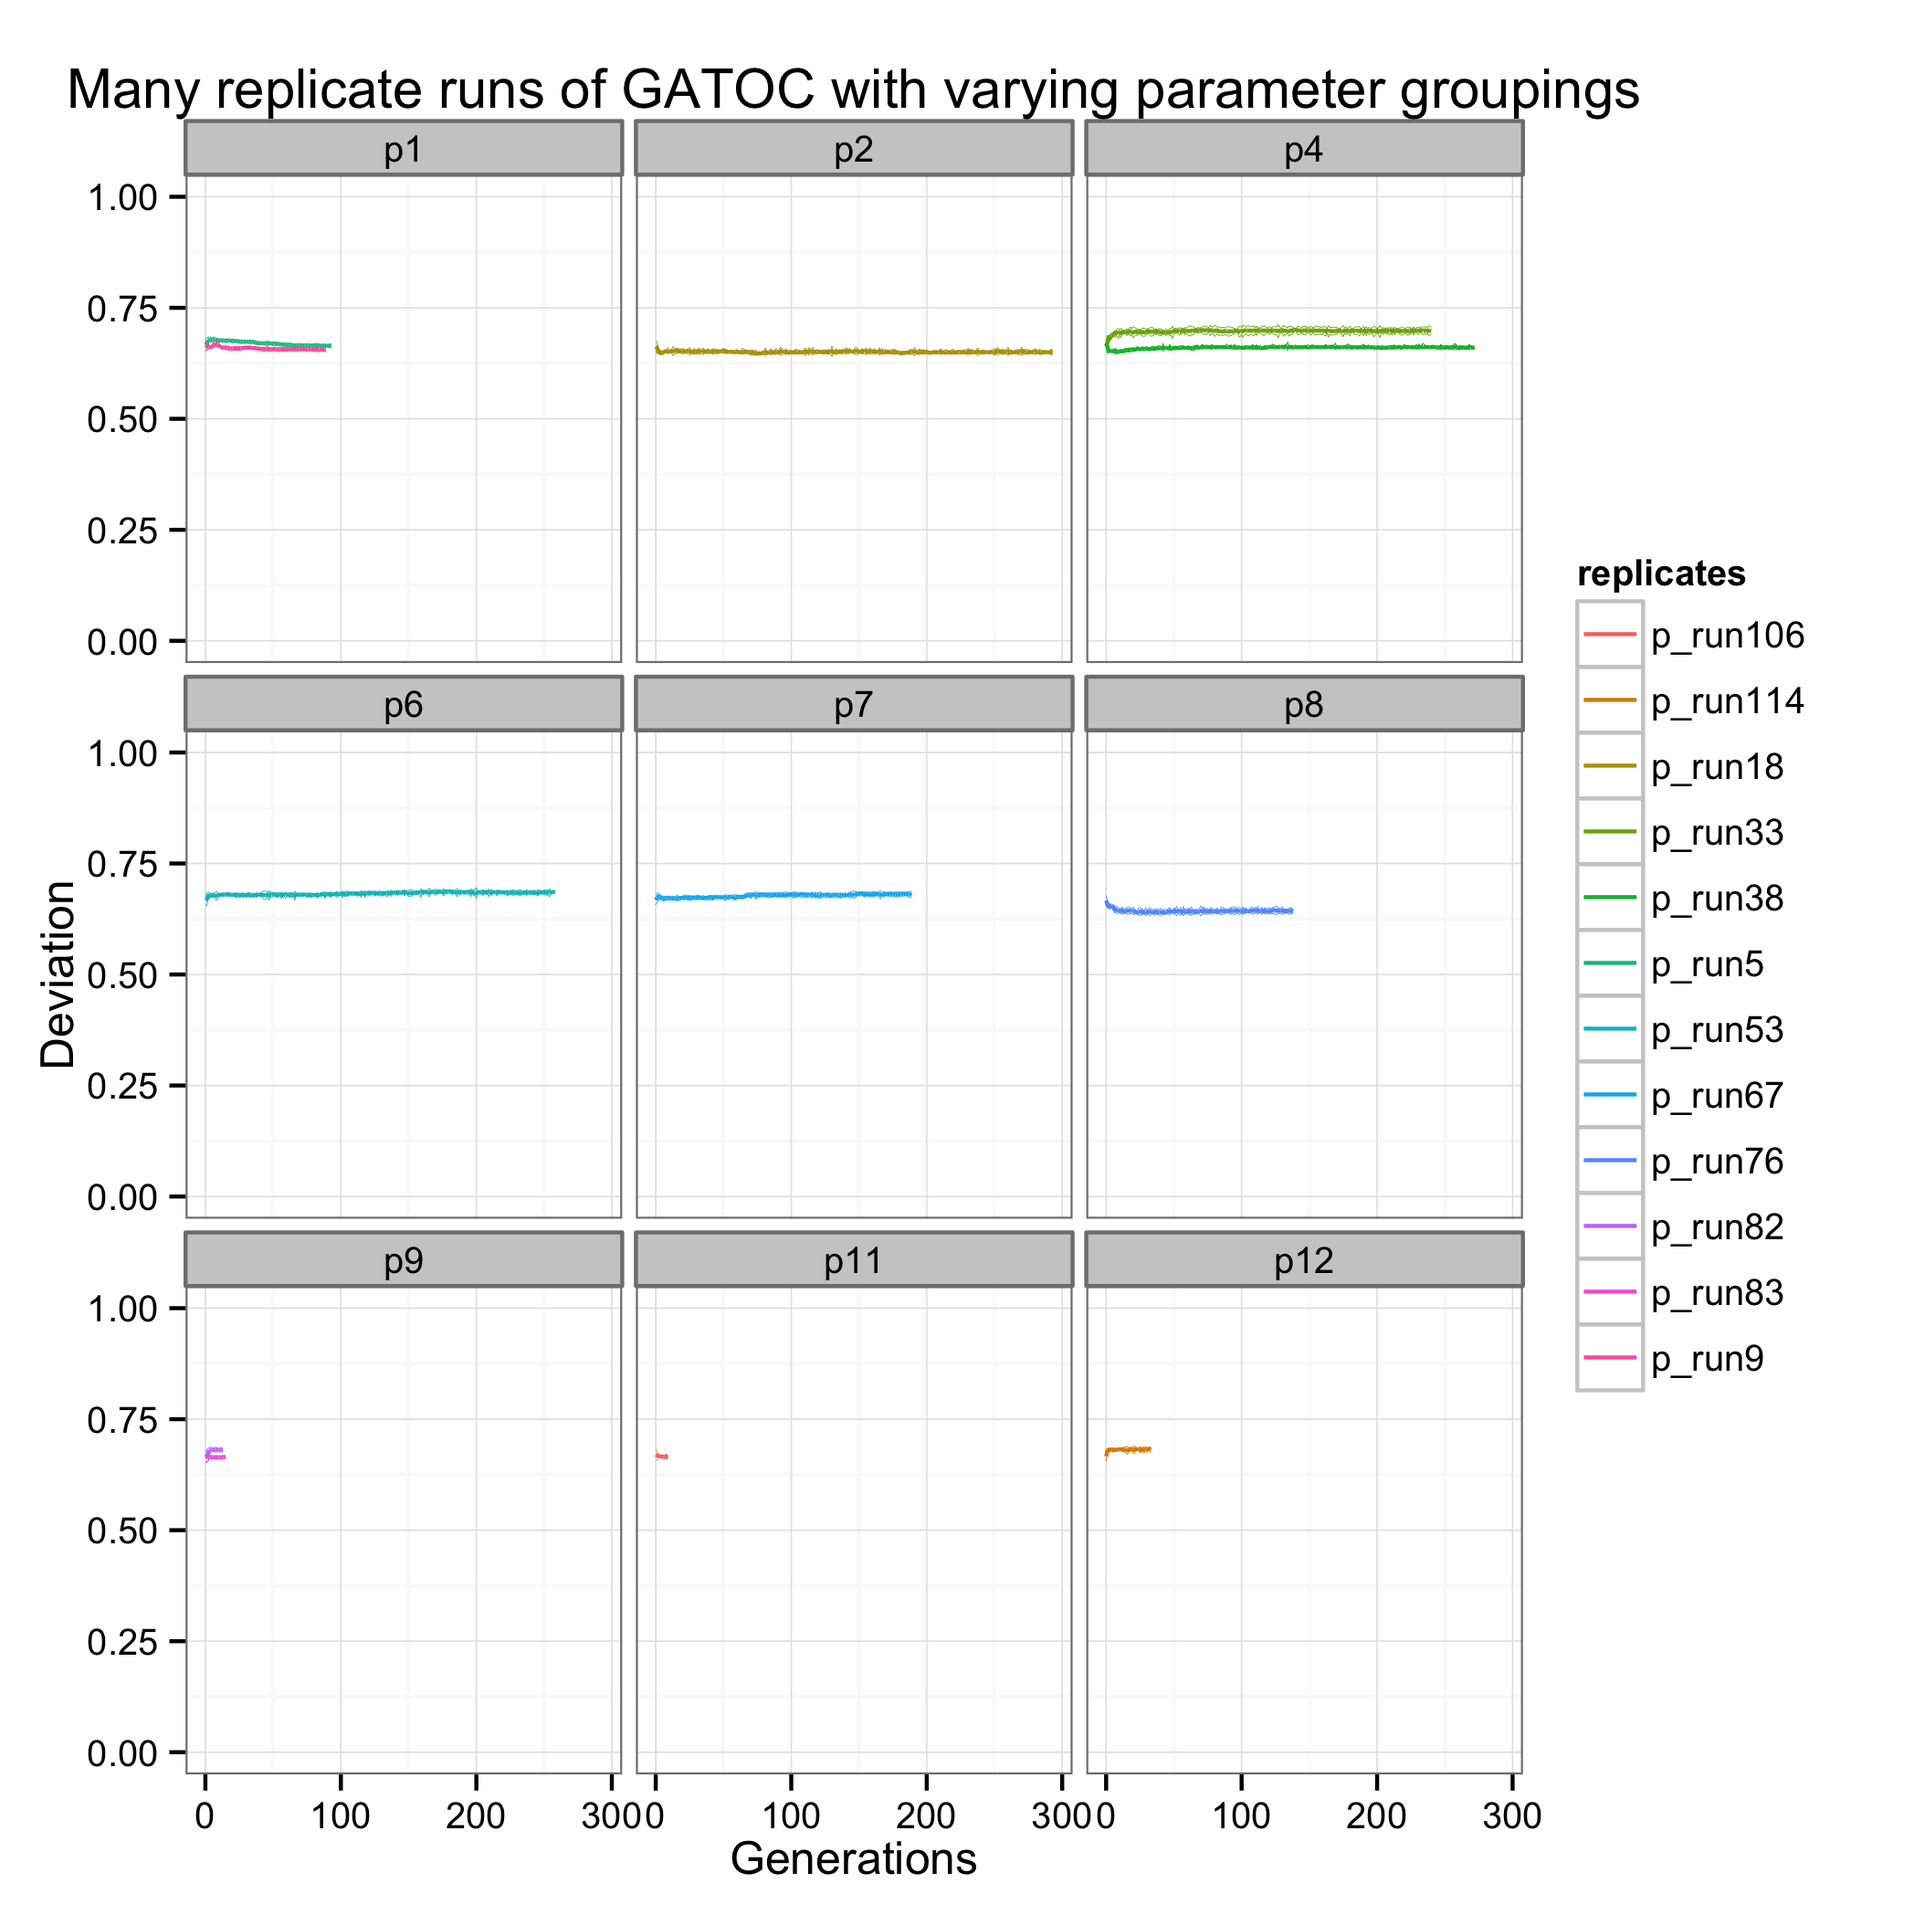
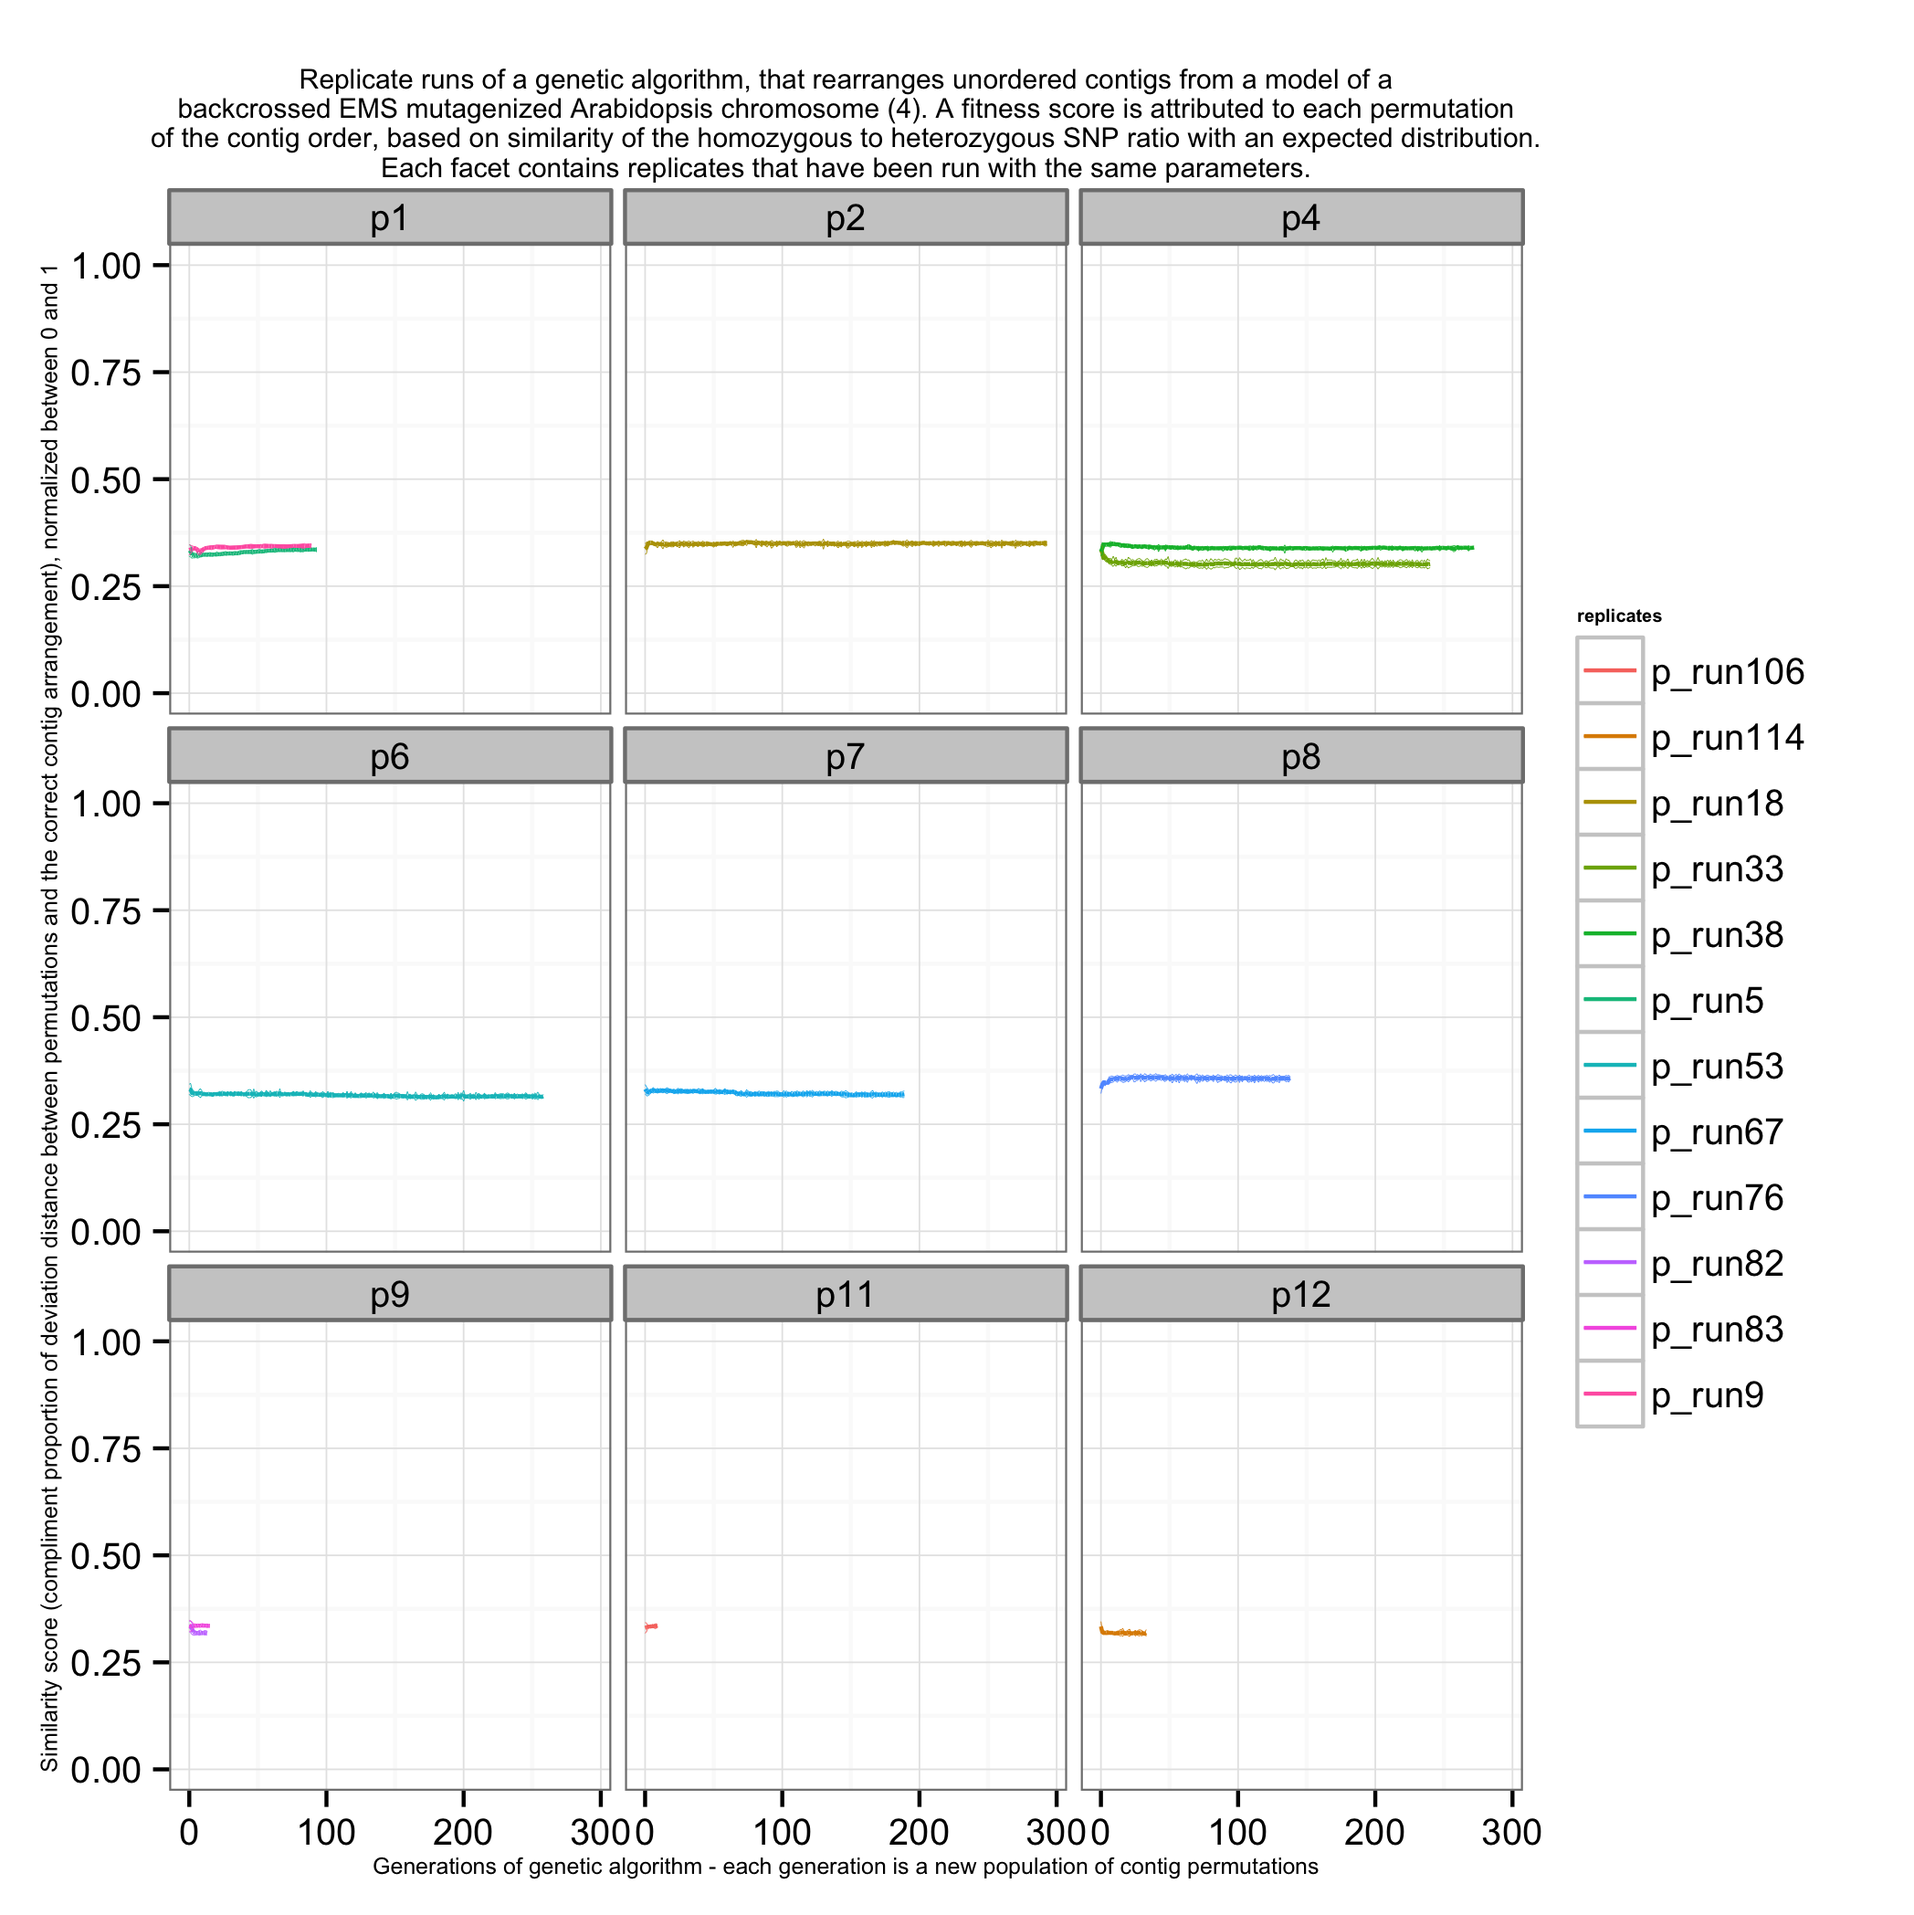
better axis and titles

diff --git a/multiple_runs_performance.rb b/multiple_runs_performance.rb
@@ -4,7 +4,10 @@ require_relative 'lib/score_plots/umbrella_plot'
 dataset = ARGV[0]
 method = ARGV[1]
 
-title = 'Many replicate runs of GATOC with varying parameter groupings'
+title = 'Replicate runs of a genetic algorithm, that rearranges unordered contigs from a model of a
+backcrossed EMS mutagenized Arabidopsis chromosome (4). A fitness score is attributed to each permutation
+of the contig order, based on similarity of the homozygous to heterozygous SNP ratio with an expected distribution.
+Each facet contains replicates that have been run with the same parameters.'
 
 if method == 'csv' || method == 'both'
 	UPlot.data_save(dataset)
@@ -12,9 +15,16 @@ end
 
 if method == 'plot' || method == 'both'
 	shorts, x = ['fits','dev','square','ham','r_dist','lcs','kt'], 0
+	y_axis = ['Permutation fitness score (similarity of SNP ratio across the permutation, to that of correctly ordered contigs)',
+		'Similarity score (compliment proportion of deviation distance between permutations and the correct contig arrangement), normalized between 0 and 1',
+		'Squared similarity score (compliment proportion of squared deviation distance between permutations and the correct contig arrangement), normalized between 0 and 1',
+		'Hamming similarity (compliment proportion of hamming distance between permutations and the correct contig arrangement), normalized between 0 and 1',
+		'R distance between permutations and the correct contig arrangement, normalized between 0 and 1',
+		'Longest common subsequence between permutations and the correct contig arrangement, normalized between 0 and 1',
+		'Compliment of Kendall\'s tau distance between permutations and the correct contig arrangement, normalized between 0 and 1']
 	['Fitness','Deviation','Square','Hamming','R','LCS','KT'].each do |metric|
 		filename = "umbrella_plot_#{[shorts[x]]}"
-		UPlot.uplot(dataset, filename, metric, title)
+		UPlot.uplot(dataset, filename, metric, y_axis[x], title)
 		x+=1
 	end
 end

diff --git a/lib/score_plots/umbrella_plot.rb b/lib/score_plots/umbrella_plot.rb
@@ -55,15 +55,17 @@ class UPlot
 	end
 
 	# Makes plot from arrays of generations (on for each data point), metric scores, and the run/replicate the data is from. Runs from different parameter replicates are faceted
-	def self.uplot(dataset, filename, metric, title)
+	def self.uplot(dataset, filename, metric, y_axis, title)
 		myr = RinRuby.new(echo = false)
 		myr.dataset = dataset
 		myr.filename = filename
 		myr.metric = metric
 		myr.title = title
+		myr.y_axis = y_axis
 		myr.eval "source('~/fragmented_genome_with_snps/lib/score_plots/umbrella_plot.R')"
 		myr.eval "df <- read.csv(file.path(paste('~/fragmented_genome_with_snps/arabidopsis_datasets/', dataset, sep=''), 'data.csv'))"
-		myr.eval "p <- uplot(df, title, metric)"
+		myr.eval "df <- df <- av_sd(df, metric)"
+		myr.eval "p <- uplot(df, title, y_axis)"
 		myr.eval "ggsave(p, file = paste('~/fragmented_genome_with_snps/arabidopsis_datasets/', dataset,'/', filename,'.png', sep = ''))"
 		myr.quit
 		puts 'made a plot'
